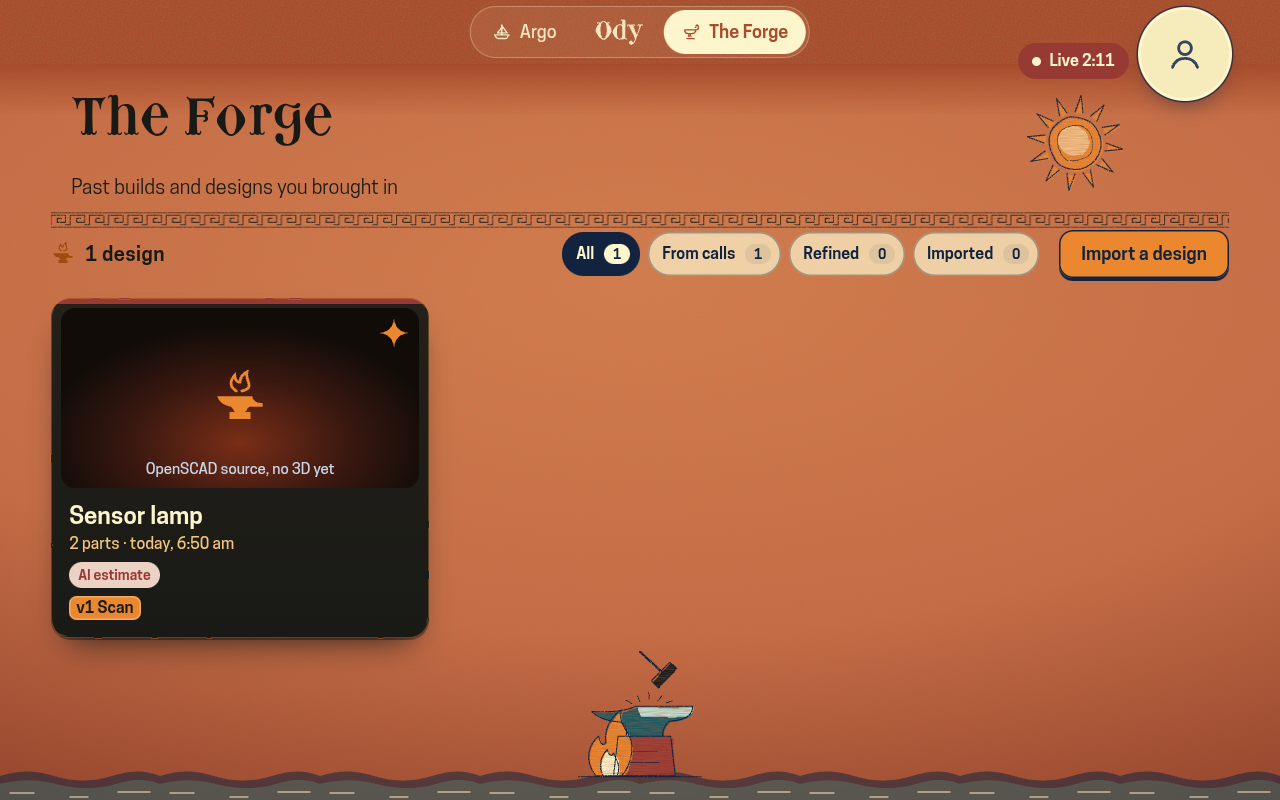
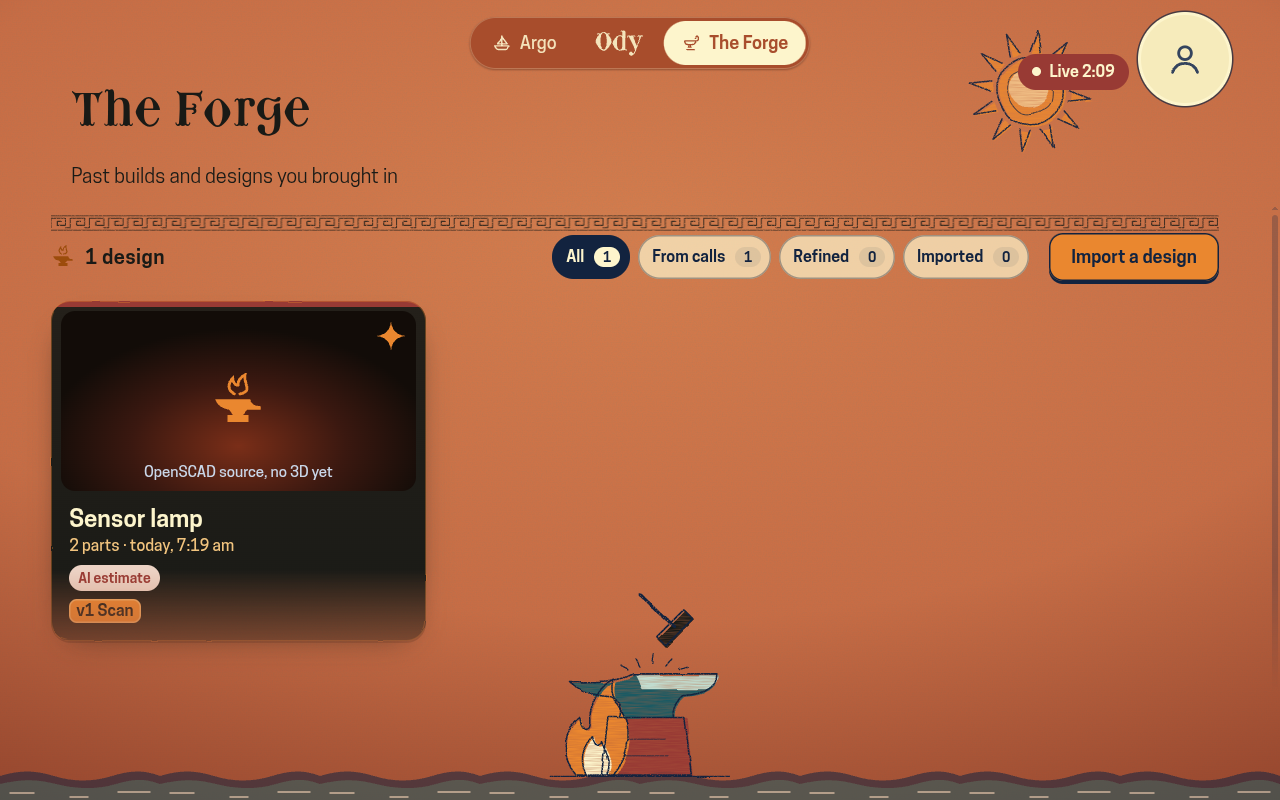
Floating nav pill (tinted per page, lifts then settles over 2 s, lifts on hover) with the page running to the top; stable Argo rip (Home scrolls inside its own pane); full-height volcanic column on the Home/Forge seam; one title size on every page with Argo's title over the stage fading during use; 

diff --git a/agent/twin/app.css b/agent/twin/app.css
@@ -636,3 +636,73 @@ html.v2 #page-argo .rail .ck-row input{accent-color:var(--walnut)}
 html.v2 #page-argo .rail :focus-visible{outline-color:var(--oak-text)}
 @media (max-width:1279px){ html.v2 #page-argo .rail{box-shadow:inset 0 0 0 1px #c99a5f55,inset 0 0 24px #2a170b66,0 0 0 3px var(--espresso),0 0 0 5px var(--walnut),0 30px 60px -10px #000e} }
 html.v2 #page-argo .rail .voyage.empty .route{opacity:.9}
+
+/* =========================== v6: no bar — a floating nav pill and a floating avatar over full-height pages =========================== */
+:root{--bar-h:0px;--pill-clear:78px}
+.appbar{position:fixed;top:0;left:0;right:0;height:0;padding:0;background:none!important;backdrop-filter:none;display:block;z-index:60;pointer-events:none}
+.appbar::after,.appbar .bar-tint,.appbar .bar-left{display:none}
+.appbar .pager{position:fixed;left:50%;top:12px;transform:translateX(-50%);pointer-events:auto;background:var(--parchment);
+  box-shadow:inset 0 0 0 1px #12233f2e,0 1px 2px #12233f1f;
+  transition:background-color .82s cubic-bezier(.22,1,.36,1),box-shadow .82s cubic-bezier(.22,1,.36,1)}
+body[data-page="argo"] .appbar .pager{background:var(--bar-navy);box-shadow:inset 0 0 0 1px #fdf5cc40,0 1px 2px #0006;transition:background-color .74s cubic-bezier(.62,.02,.22,1) .14s,box-shadow .74s cubic-bezier(.62,.02,.22,1) .14s}
+body[data-page="forge"] .appbar .pager{background:var(--bar-ember);box-shadow:inset 0 0 0 1px #fdf5cc40,0 1px 2px #3a161066;transition:background-color .74s cubic-bezier(.62,.02,.22,1) .14s,box-shadow .74s cubic-bezier(.62,.02,.22,1) .14s}
+.appbar .bar-right{position:fixed;top:10px;right:var(--pad-x);padding:0;pointer-events:auto;display:flex;align-items:flex-start;gap:12px}
+.appbar .callpill{margin-top:26px}
+.menu{top:108px}
+/* float and settle: a lifted shadow on a pseudo-element (opacity only); it fades over 2 s, hover/focus lifts it again in 0.22 s */
+.appbar .pager::after,.appbar .avatar::after{content:"";position:absolute;inset:0;border-radius:inherit;pointer-events:none;z-index:-1;opacity:0;
+  box-shadow:0 18px 34px -10px #12233f8c,0 6px 12px -4px #12233f4d;transition:opacity 2s cubic-bezier(.22,1,.36,1)}
+.appbar .avatar{position:relative;isolation:auto}
+.appbar .pager.lift::after,.appbar .avatar.lift::after{opacity:1;transition:none}
+.appbar .pager:hover::after,.appbar .pager:focus-within::after,.appbar .avatar:hover::after,.appbar .avatar:focus-visible::after,.appbar .avatar[aria-expanded=true]::after{opacity:1;transition:opacity .22s cubic-bezier(.22,1,.36,1)}
+.appbar .avatar{box-shadow:0 0 0 3px var(--parchment),0 0 0 4.5px #12233fb3,0 2px 4px #12233f33}
+.appbar .avatar:hover{box-shadow:0 0 0 3px var(--parchment),0 0 0 4.5px var(--navy),0 2px 4px #12233f33}
+.appbar .avatar[aria-expanded=true]{box-shadow:0 0 0 3px var(--parchment),0 0 0 5px var(--accent),0 2px 4px #12233f33}
+@media (prefers-reduced-motion:reduce){ .appbar .pager::after,.appbar .avatar::after{opacity:.35!important} }
+html.reduce-motion .appbar .pager::after,html.reduce-motion .appbar .avatar::after{opacity:.35!important}
+/* pages run to the top edge; content starts below the floating pill */
+html.v2 #pages{top:0}
+html.v2 #page-argo{padding-top:calc(var(--pill-clear) - 14px)}
+.page-wrap{padding-top:calc(var(--pill-clear) + 12px)}
+html.v2 .forge-head{padding-top:calc(var(--pill-clear) + 4px)}
+html.v2 .forge-scroll{top:calc(var(--pill-clear) + clamp(120px,15vh,150px))}
+html.v2 .forge-viewer{top:calc(var(--pill-clear) + clamp(100px,13vh,130px))}
+html.v2 .forge-page{background:radial-gradient(120% 95% at 50% 30%,#e0844f33 0%,#b9583a66 50%,#7a2e1fcc 92%,#3a1610ee 100%),var(--clay),#d07a4c}
+html.v2 .panel{top:calc(var(--pill-clear) + 30px)}
+/* Home scrolls inside .main-scroll; the torn edge and the column belong to the page, so their geometry never changes with scroll */
+html.v2 #page-main{overflow:hidden}
+#page-main .main-scroll{position:absolute;inset:0;overflow-x:hidden;overflow-y:auto;scrollbar-width:thin;scrollbar-color:#12233f40 transparent}
+#page-main .home-rip{position:absolute;top:0;bottom:0}
+#page-main .home-column{position:absolute;bottom:0}
+/* bigger motifs (scaled down on smaller windows) */
+#page-main .pk-sky{right:clamp(140px,14vw,220px);top:22px;width:clamp(260px,26vw,400px);height:clamp(130px,13vw,200px)}
+html.v2 .forge-page::before{right:clamp(150px,14vw,230px);top:calc(var(--pill-clear) - 6px);width:clamp(140px,13vw,200px);height:clamp(140px,13vw,200px)}
+html.v2 .forge-hearth{height:clamp(190px,26vh,270px)}
+html.v2 .forge-hearth::before{width:clamp(190px,17vw,270px);height:clamp(168px,15vw,238px);margin-left:calc(clamp(190px,17vw,270px) / -2);bottom:16px}
+html.v2 .forge-scroll{padding-bottom:clamp(220px,30vh,300px);-webkit-mask-image:linear-gradient(#000 calc(100% - 230px),transparent calc(100% - 110px));mask-image:linear-gradient(#000 calc(100% - 230px),transparent calc(100% - 110px))}
+html.v2 .forge-olive{width:clamp(220px,20vw,300px);height:clamp(66px,6vw,90px)}
+
+/* =========================== v6b: spacing, the seam column, one title size, Argo's title over the stage =========================== */
+:root{--pill-top:clamp(10px,1.3vw,20px);--fs-title:clamp(44px,4vw,60px);--pill-clear:calc(var(--pill-top) + 66px)}
+.appbar .pager{top:var(--pill-top)}
+.appbar .bar-right{top:calc(var(--pill-top) - 2px)}
+.menu{top:calc(var(--pill-top) + 98px)}
+/* one page-title style on every page */
+.t-hero,#main-h,html.v2 .forge-title,html.v2 #argo-h{font:400 var(--fs-title)/1 var(--f-title);letter-spacing:-.01em}
+/* the column spans the full height and stands on the seam between Home and The Forge (half of it shows on Home) */
+#page-main .home-column{top:0;bottom:0;height:auto;right:-46px;width:92px}
+#page-main .home-column:hover,#page-main .home-column:focus-visible,#page-main .home-column:active{transform:none}
+#page-main .home-column::before{height:44px}
+#page-main .home-column .col-body{top:43px}
+#page-main .page-wrap{padding-right:max(var(--pad-x),96px)}
+/* Argo's title sits over the 3D view, top-left; it fades away during a call or while you work the stage, and back after */
+html.v2 #page-argo .argo-title{position:absolute;left:24px;top:18px;z-index:6;margin:0;pointer-events:none;color:var(--parchment);
+  text-shadow:0 2px 12px #0a1830cc;opacity:1;transition:opacity 2s cubic-bezier(.22,1,.36,1)}
+html.v2 body[data-phase="live"] #page-argo .argo-title,html.v2 #page-argo.stage-busy .argo-title{opacity:0}
+html.v2 #page-argo .stage-head{top:calc(30px + var(--fs-title))}
+html.v2 #page-argo > header .status,html.v2 #page-argo > header .replay:not([hidden]){margin-left:auto}
+html.v2 #page-argo > header .replay:not([hidden]) + .status{margin-left:0}
+html.v2 #page-argo > header{min-height:52px}
+html.reduce-motion #page-argo .argo-title{transition:none}
+@media (prefers-reduced-motion:reduce){ html.v2 #page-argo .argo-title{transition:none} }
+html.v2 .forge-page::before{top:calc(var(--pill-top) + 4px);width:clamp(120px,11vw,170px);height:clamp(120px,11vw,170px)}

diff --git a/agent/twin.html b/agent/twin.html
@@ -633,7 +633,6 @@
 <section id="page-argo" class="page" data-page="argo" aria-labelledby="argo-h">
 <header>
   <button class="btn quiet small rail-toggle v2-only" id="rail-toggle" type="button" aria-expanded="false" aria-controls="rail">Call panel</button>
-  <h1 class="t-page v2-only" id="argo-h">Argo</h1>
   <span class="mark" aria-hidden="true"></span>
   <span class="wordmark">Ody</span>
   <span class="replay" id="replayBadge" role="status" hidden></span>
@@ -644,6 +643,7 @@
 </header>
 <main>
   <section class="theatre" aria-label="Your project in 3D, and the caller’s camera">
+    <h1 class="t-page argo-title v2-only" id="argo-h">Argo</h1>
     <div class="stage" id="stage" tabindex="0" role="application" aria-roledescription="3D view" aria-describedby="stagekeys"
       aria-label="3D twin of your project">
       <canvas id="view" aria-hidden="true"></canvas>
@@ -818,11 +818,12 @@
 </section>
 
 <section id="page-main" class="page paper" data-page="main" aria-labelledby="main-h" hidden>
+  <a class="home-rip" href="#argo" data-go="argo" data-rip aria-label="Go to Argo" title="Go to Argo"><span class="rip-sea" aria-hidden="true"></span><span class="rip-fibres" aria-hidden="true"></span></a>
+  <a class="home-column" href="#forge" data-go="forge" aria-label="Go to The Forge" title="Go to The Forge"><span class="col-body" aria-hidden="true"><span class="col-ember"></span></span></a>
+  <div class="main-scroll">
   <div class="pk-layer pk-sky parallax" data-depth="0.2" aria-hidden="true"></div>
   <div class="pk-layer pk-sprig-l parallax" data-depth="0.5" aria-hidden="true"></div>
   <div class="pk-layer pk-sprig-r parallax" data-depth="0.5" aria-hidden="true"></div>
-  <a class="home-rip" href="#argo" data-go="argo" data-rip aria-label="Go to Argo" title="Go to Argo"><span class="rip-sea" aria-hidden="true"></span><span class="rip-fibres" aria-hidden="true"></span></a>
-  <a class="home-column" href="#forge" data-go="forge" aria-label="Go to The Forge" title="Go to The Forge"><span class="col-body" aria-hidden="true"><span class="col-ember"></span></span></a>
   <div class="page-wrap">
   <header class="page-head rise">
     <p class="eyebrow" id="main-greet">Welcome aboard</p>
@@ -855,6 +856,7 @@
     <div class="pk-ship s1 bob" data-depth="0.7"></div>
     <div class="pk-ship s2 bob" data-depth="0.5" style="--d:-2.4s"></div>
     <div class="pk-waves-front" data-depth="0.9"></div>
+  </div>
   </div>
 </section>
 

diff --git a/agent/twin/account.js b/agent/twin/account.js
@@ -210,3 +210,12 @@ function setRail(open) {
 railBtn?.addEventListener('click', () => setRail(!argo.classList.contains('rail-open')));
 addEventListener('keydown', e => { if (e.key === 'Escape' && argo?.classList.contains('rail-open') && matchMedia('(max-width: 1279px)').matches) { setRail(false); railBtn.focus(); } });
 $('stage')?.addEventListener('pointerdown', () => { if (argo?.classList.contains('rail-open')) setRail(false); });
+
+// ---------- Argo's title over the stage: hidden while you work the 3D view (and during a call, by CSS), back when you leave ----------
+const stageEl = $('stage'), theatreEl = document.querySelector('#page-argo .theatre');
+const busy = on => argo?.classList.toggle('stage-busy', on);
+stageEl?.addEventListener('pointerdown', () => busy(true));
+stageEl?.addEventListener('focusin', () => busy(true));
+stageEl?.addEventListener('keydown', () => busy(true));
+for (const id of ['t-hands', 't-explode', 't-holo', 't-reset']) $(id)?.addEventListener('click', () => busy(true));
+addEventListener('pointerdown', e => { if (theatreEl && !theatreEl.contains(e.target)) busy(false); }, true);

diff --git a/agent/twin/pages.js b/agent/twin/pages.js
@@ -175,6 +175,15 @@ function callPill() {
   sync();
 }
 
+// float and settle: the nav pill and the avatar lift (shadow on) at load and after each move, then sink back over ~2 s
+function lift(...els) {
+  for (const el of els) {
+    if (!el) continue;
+    el.classList.add('lift'); void el.offsetWidth;
+    requestAnimationFrame(() => requestAnimationFrame(() => el.classList.remove('lift')));
+  }
+}
+
 function init() {
   root.classList.add('v2');
   for (const h of document.querySelectorAll('#pages > .page h1')) h.tabIndex = -1;
@@ -224,6 +233,8 @@ function init() {
   const first = location.hash.slice(1);
   goTo(PAGES.includes(first) ? first : 'main', { push: false });
   callPill();
+  lift(document.querySelector('.appbar .pager'), $('profile-btn'));
+  onPage(() => lift(document.querySelector('.appbar .pager')));
 }
 
 if (v2) init();
